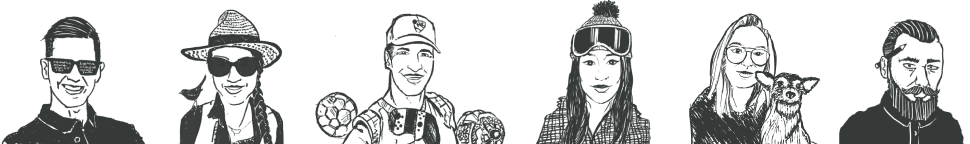
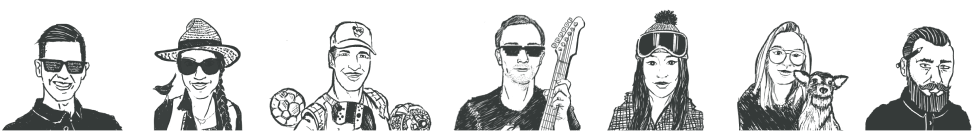
Update footer images to include Michal

diff --git a/src/sass/style.scss b/src/sass/style.scss
@@ -1748,13 +1748,13 @@ textarea {
 	}
 
 	@media screen and (min-width: $breakpoint-large) {
-		width: 970px;
-		height: 144px;
+		width: 977px;
+		height: 131px;
 	}
 
 	@media screen and (min-width: $breakpoint-xlarge) {
 		width: 1167px;
-		height: 172px;
+		height: 155px;
 	}
 
 	img {
